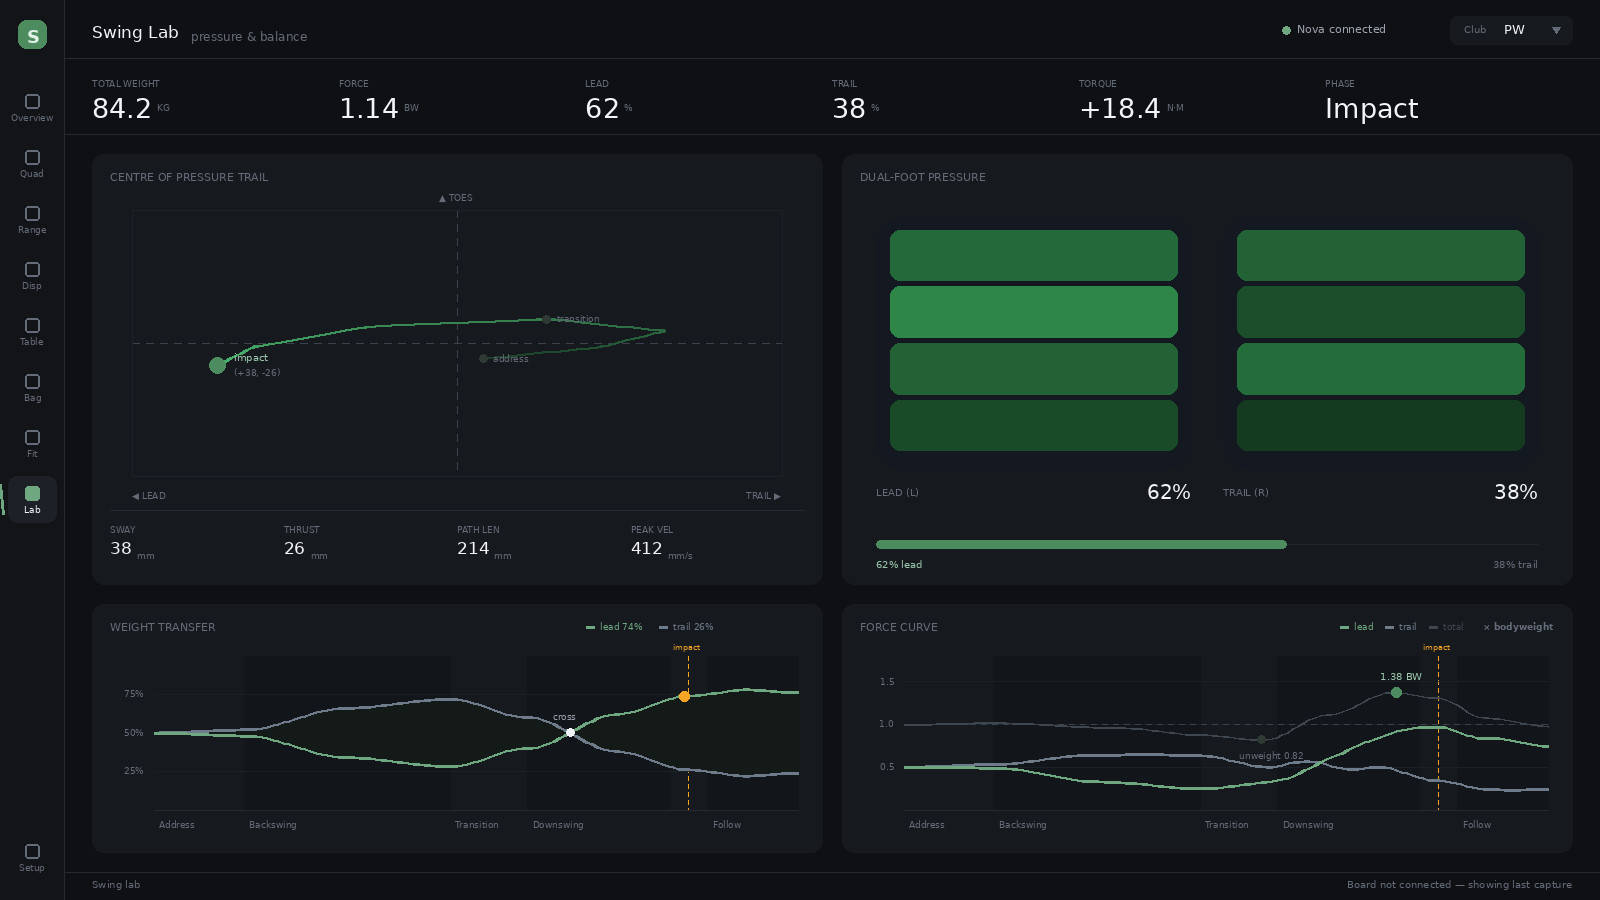
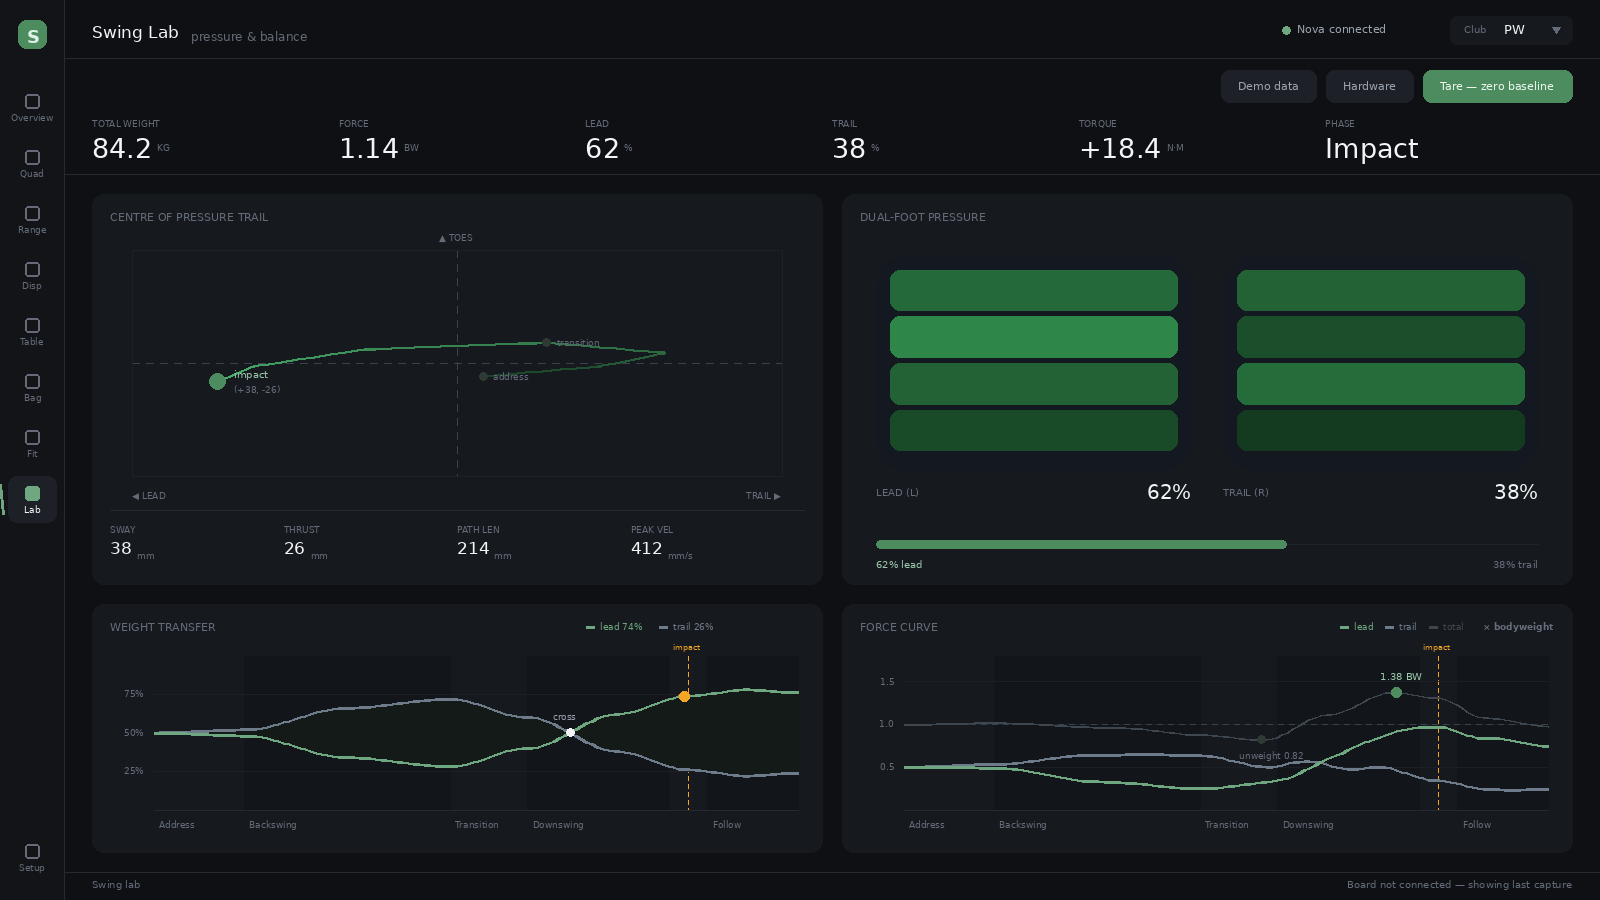
docs(ui): restore Demo / Hardware / Tare controls to the Swing Lab mockup
The Swing Lab mockup had dropped all three buttons the current view carries
(swing_lab_demo_rect, swing_lab_hw_rect, swing_lab_tare_rect). They are now
a right-aligned action bar under the title, with Tare as the primary since
it is the one used every session.

Tare was arguably "covered" by the Setup mockup, but that placement was
wrong: taring zeroes your standing weight and is done at the mat right
before hitting. Making a user leave the view they are standing on to do it
breaks the workflow. Setup keeps a tare for first-time board setup; the Lab
keeps the one used in practice.

Demo data matters for the same reason it exists today -- it is how anyone
without a balance board sees the view do anything at all.

diff --git a/docs/ui/README.md b/docs/ui/README.md
@@ -105,7 +105,11 @@ it is a constant at these speeds.
 
 **Swing Lab** — CoP trail with address/transition/impact markers, dual-foot
 heatmap, lead/trail balance bar, and weight-transfer / force curves plotted
-per foot against a shared phase timeline.
+per foot against a shared phase timeline. Keeps the view's three existing
+controls in a top action bar (`swing_lab_demo_rect` / `_hw_rect` /
+`_tare_rect`). Tare belongs here rather than in Setup: you zero your
+standing weight at the mat immediately before hitting, not by navigating to
+a settings screen.
 
 **Setup / Hardware** — board pairing was previously reachable only from Swing
 Lab via a small "⚙ Hardware" button, which is hard to find when the thing you
